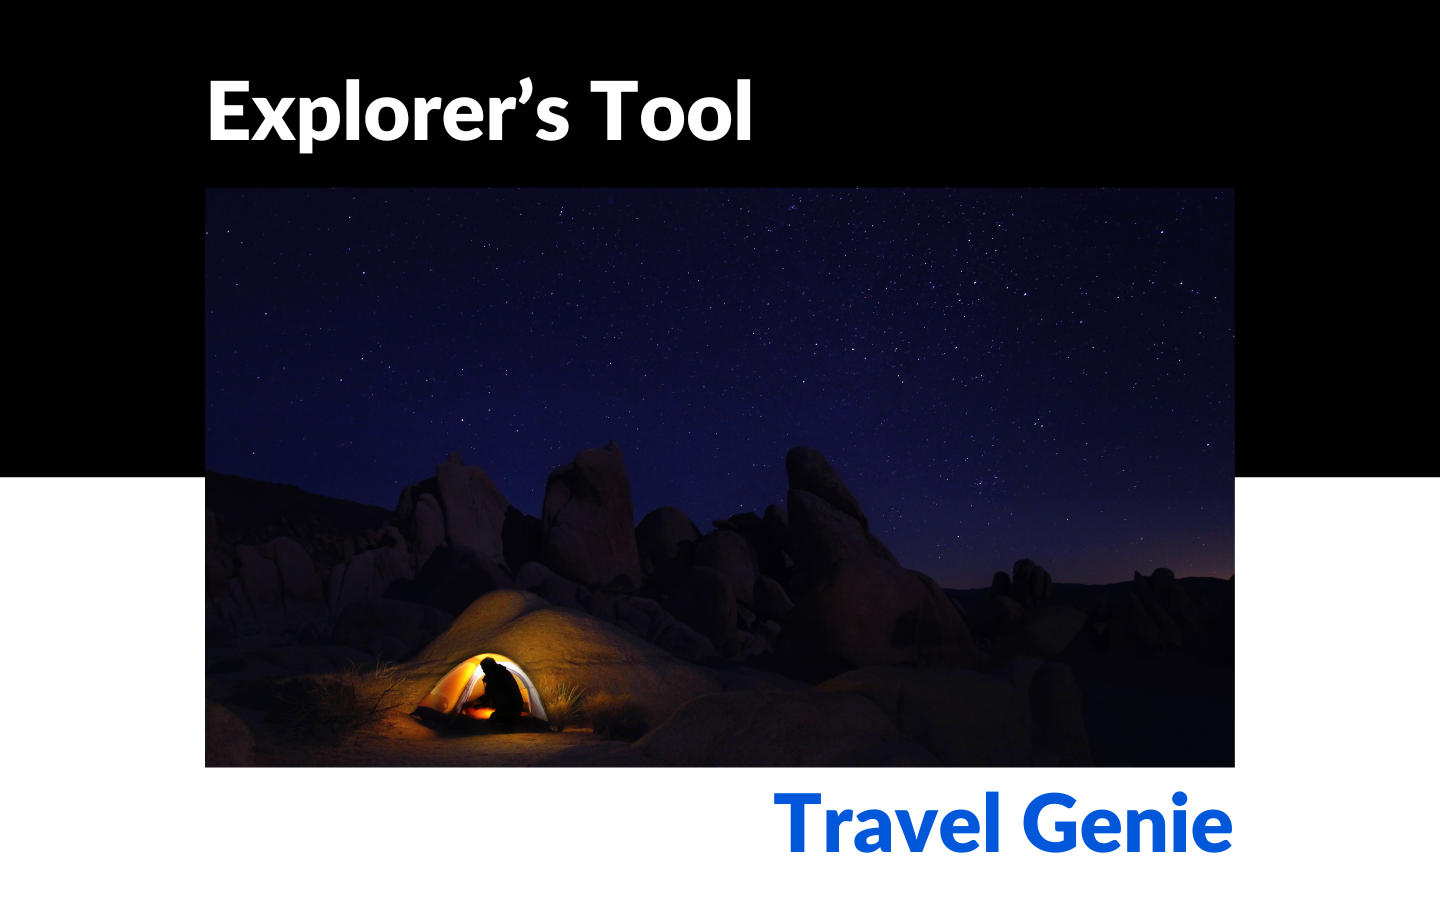
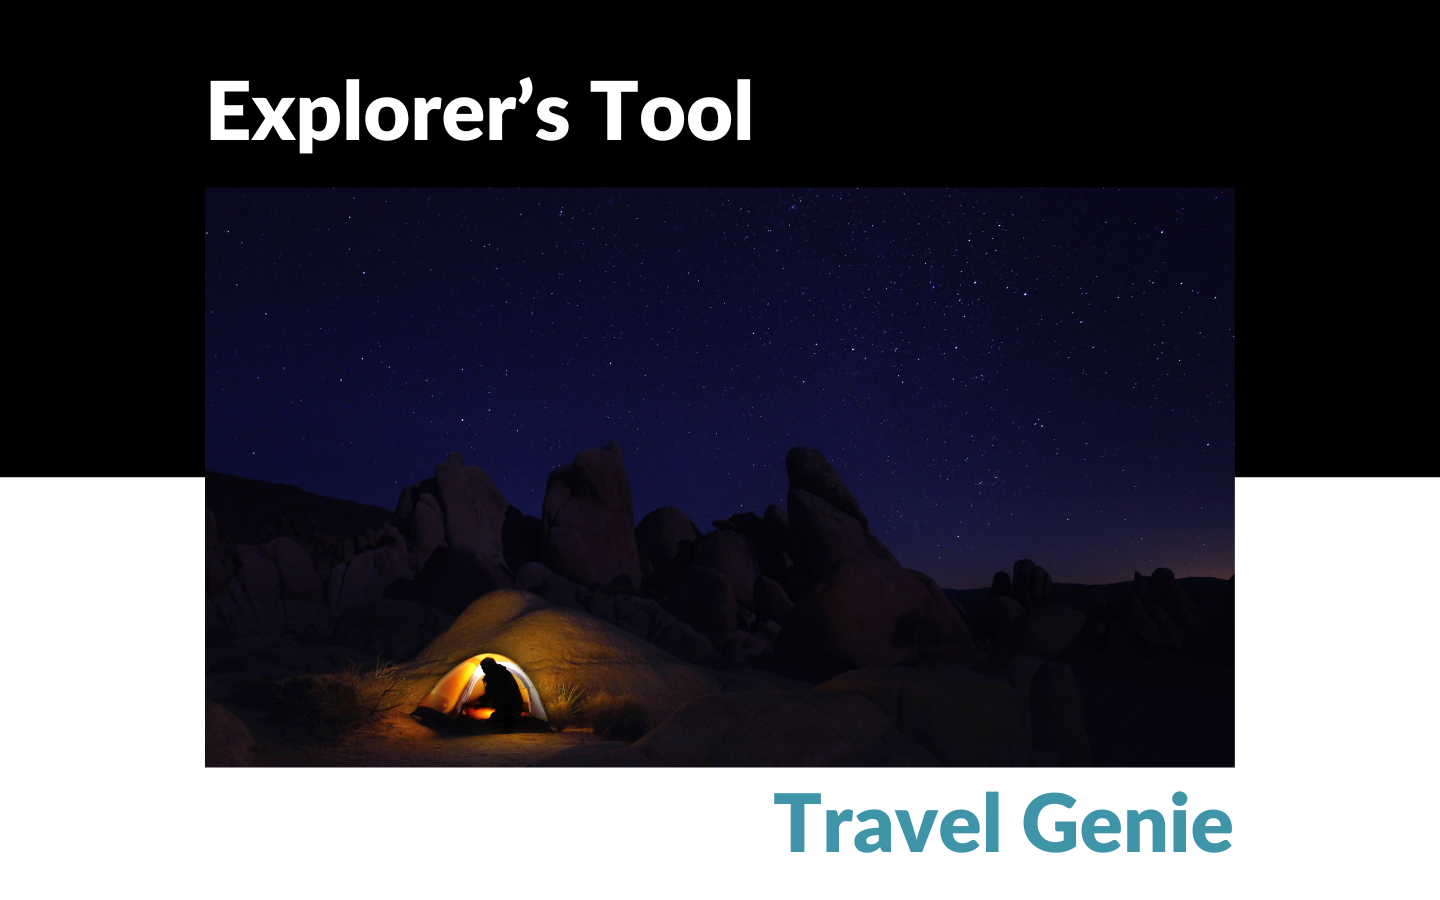
changes to colors on about and welcome page and footer

Changed region(s): [[0.5312, 0.8711, 0.875, 0.9644]]

diff --git a/frontend/src/views/Welcome.vue b/frontend/src/views/Welcome.vue
@@ -16,7 +16,7 @@
         <div class="container">
             <div class="left-text">
                 <p>Welcome to</p>
-                <p style="font-style: italic;">Wander :</p>
+                <p style="font-family: Lobster Two; font-size: larger; color: #3f94a7;">wander :</p>
                 <p>Explore the world</p>
                 <p>like</p>
                 <p>never before</p>
@@ -671,7 +671,7 @@ export default {
 .carousel-header h2 {
     font-size: 2rem;
     margin-bottom: 20px;
-    color: #0057d9;
+    color: #3f94a7;
 }
 
 /* Carousel container styling */
@@ -731,7 +731,7 @@ export default {
     .image-caption {
         font-size: 1rem;
         margin-top: 8px;
-        color: #0057d9;
+        color: #3f94a7;
     }
 }
 
@@ -755,7 +755,7 @@ export default {
     .image-caption {
         font-size: 0.9rem;
         margin-top: 6px;
-        color: #0057d9;
+        color: #3f94a7;
     }
 }
 
@@ -779,7 +779,7 @@ export default {
     .image-caption {
         font-size: 0.8rem;
         margin-top: 4px;
-        color: #0057d9;
+        color: #3f94a7;
     }
 }
 
@@ -924,8 +924,8 @@ export default {
 }
 
 .right-text span {
-    background-color: white;
-    color: black;
+    background-color: #3f94a7;
+    color: #ffffff;
 }
 
 
@@ -965,6 +965,7 @@ export default {
     font-size: 2rem;
     font-weight: bold;
     margin-bottom: 50px;
+    color: #3f94a7;
 }
 
 .project-number-2 {
@@ -977,7 +978,7 @@ export default {
         line-height: 1;
 
         span.typed-text {
-            color: #64a2ff;
+            color: #3f94a7;
         }
     }
 
@@ -993,7 +994,7 @@ export default {
         line-height: 1;
 
         span.typed-text {
-            color: #64a2ff;
+            color: #3f94a7;
         }
     }
 
@@ -1013,7 +1014,7 @@ export default {
         font-weight: normal;
 
         span.typed-text {
-            color: #64a2ff;
+            color: #3f94a7;
         }
     }
 
@@ -1276,8 +1277,8 @@ export default {
     border-radius: 6px;
     cursor: pointer;
     transition: all 0.2s ease;
-    border: 1px solid #0057d9;
-    color: #0057d9;
+    border: 1px solid #3f94a7;
+    color: #3f94a7;
     background-color: #ffffff;
 }
 
@@ -1287,20 +1288,20 @@ export default {
 }
 
 .signup-btn {
-    background-color: #2563eb;
-    border: 1px solid #2563eb;
+    background-color: #3f94a7;
+    border: 1px solid #3f94a7;
     color: white;
 }
 
 .signup-btn:hover {
-    background-color: #1d4ed8;
-    border-color: #1d4ed8;
+    background-color: #378597;
+    border-color: #378597;
 }
 
 /* Optional: Add focus states for accessibility */
 .login-btn:focus,
 .signup-btn:focus {
-    outline: 2px solid #2563eb;
+    outline: 2px solid #378597;
     outline-offset: 2px;
 }
 
@@ -1310,7 +1311,7 @@ export default {
 }
 
 .signup-btn:active {
-    background-color: #1e40af;
+    background-color: #3f94a7;
 }
 
 /* Optional: Add responsive design */
@@ -1348,7 +1349,7 @@ export default {
 }
 
 .call-to-action span {
-    color: #0057d9;
+    color: #3f94a7;
     /* font-style: italic; */
 }
 </style>

diff --git a/frontend/src/views/AboutPage.vue b/frontend/src/views/AboutPage.vue
@@ -16,7 +16,7 @@
         <div class="container">
             <div class="left-text">
                 <p>Welcome to</p>
-                <p style="font-style: italic;">Wander :</p>
+                <p style="font-size: larger; font-family: Lobster Two; color: #3f94a7;">wander :</p>
                 <p>Explore the world</p>
                 <p>like</p>
                 <p>never before</p>
@@ -651,7 +651,7 @@ export default {
 .carousel-header h2 {
     font-size: 2rem;
     margin-bottom: 20px;
-    color: #0057d9;
+    color: #3f94a7;
 }
 
 /* Carousel container styling */
@@ -711,7 +711,7 @@ export default {
     .image-caption {
         font-size: 1rem;
         margin-top: 8px;
-        color: #0057d9;
+        color: #3f94a7;
     }
 }
 
@@ -735,7 +735,7 @@ export default {
     .image-caption {
         font-size: 0.9rem;
         margin-top: 6px;
-        color: #0057d9;
+        color: #3f94a7;
     }
 }
 
@@ -759,7 +759,7 @@ export default {
     .image-caption {
         font-size: 0.8rem;
         margin-top: 4px;
-        color: #0057d9;
+        color: #3f94a7;
     }
 }
 
@@ -904,8 +904,8 @@ export default {
 }
 
 .right-text span {
-    background-color: white;
-    color: black;
+    background-color: #3f94a7;
+    color: #ffffff;
 }
 
 
@@ -945,6 +945,7 @@ export default {
     font-size: 2rem;
     font-weight: bold;
     margin-bottom: 50px;
+    color: #3f94a7;
 }
 
 .project-number-2 {
@@ -957,7 +958,7 @@ export default {
         line-height: 1;
 
         span.typed-text {
-            color: #64a2ff;
+            color: #3f94a7;
         }
     }
 
@@ -973,7 +974,7 @@ export default {
         line-height: 1;
 
         span.typed-text {
-            color: #64a2ff;
+            color: #3f94a7;
         }
     }
 
@@ -993,7 +994,7 @@ export default {
         font-weight: normal;
 
         span.typed-text {
-            color: #64a2ff;
+            color: #3f94a7;
         }
     }
 

diff --git a/frontend/src/components/AppFooter.vue b/frontend/src/components/AppFooter.vue
@@ -166,7 +166,7 @@ export default {
 
 .subscribe-button {
     padding: 0.8rem;
-    background-color: #4a90e2;
+    background-color: #3f94a7;
     color: white;
     border: none;
     border-radius: 4px;
@@ -175,7 +175,7 @@ export default {
 }
 
 .subscribe-button:hover {
-    background-color: #357abd;
+    background-color: #378597;
 }
 
 @media (max-width: 768px) {
